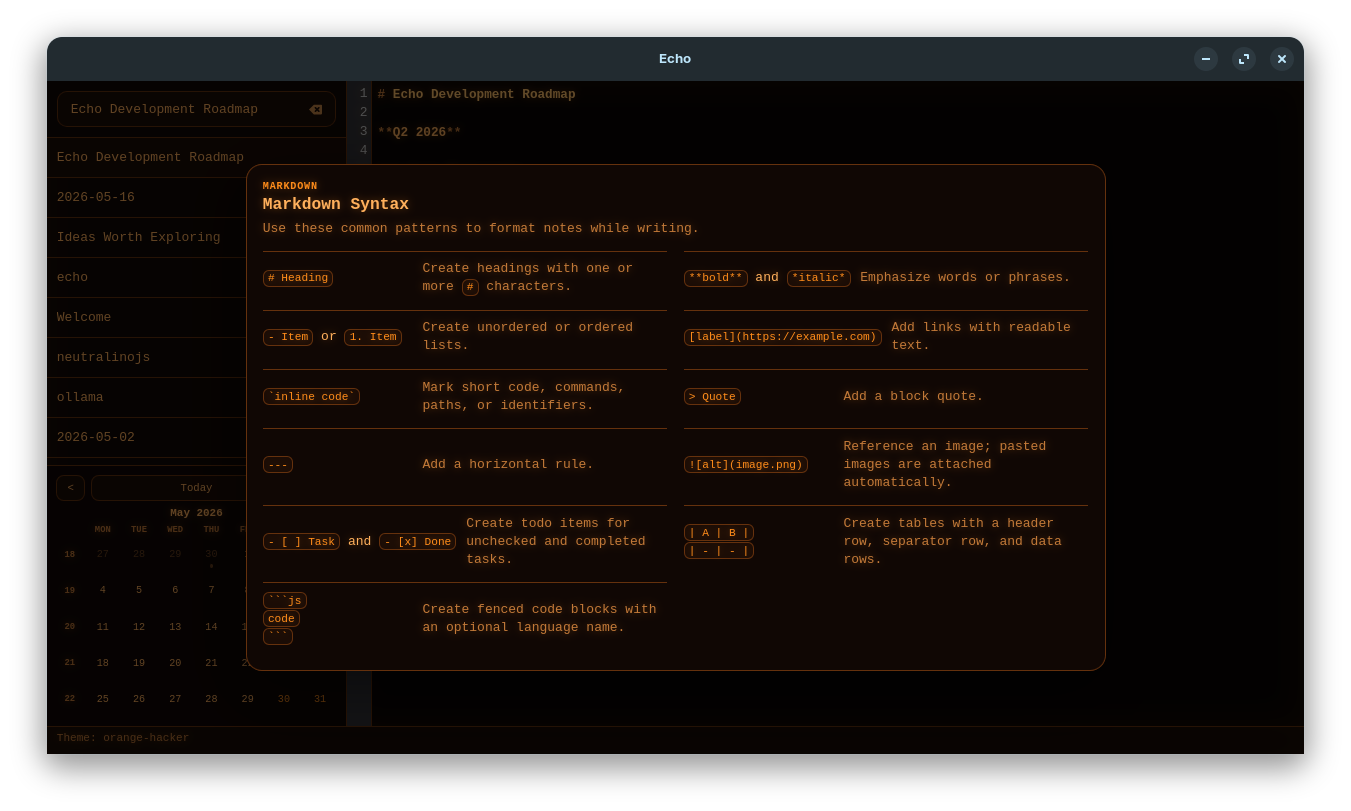
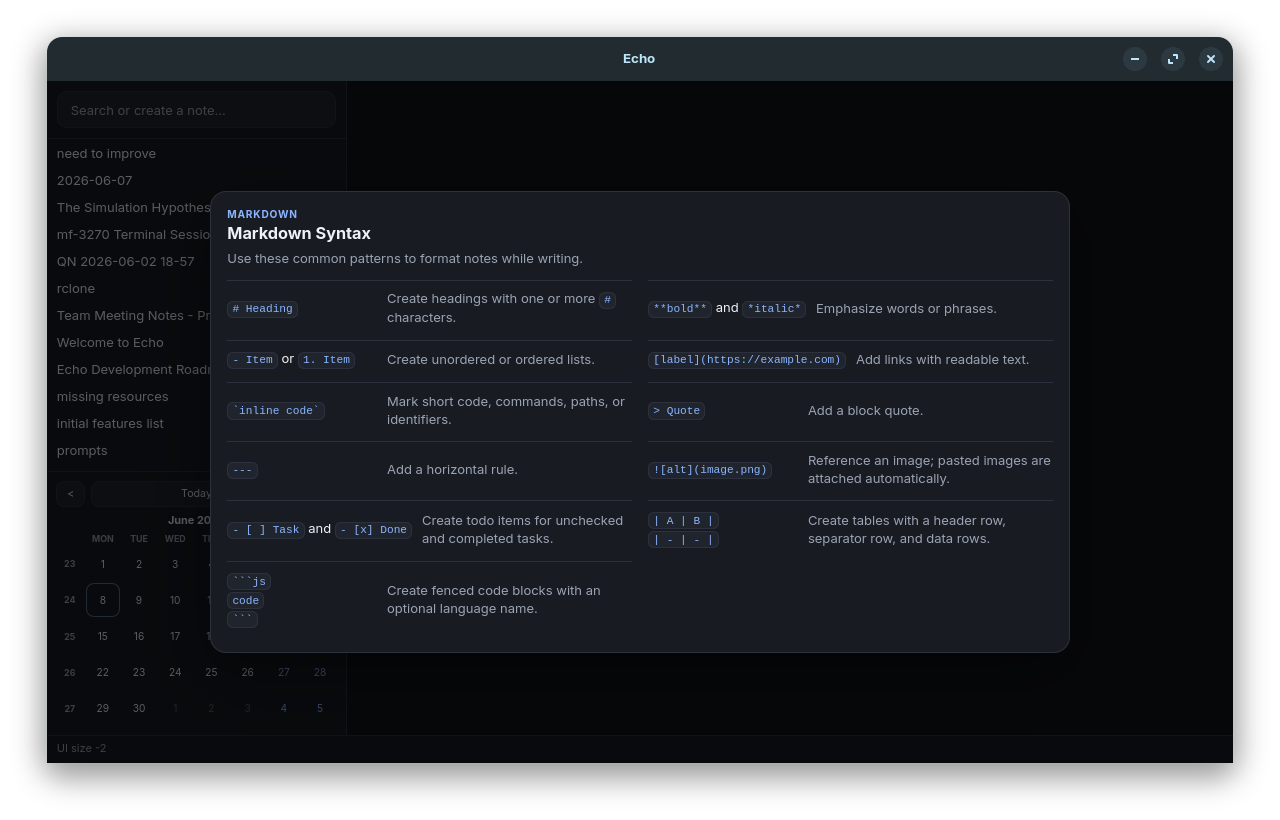
Enhance gallery functionality and styles in index.html
- Added CSS styles for gallery items, including hover effects and lightbox functionality for image previews.
- Replaced media placeholders with interactive buttons for screenshots, allowing users to click and view images in a lightbox.
- Updated the screenshots section to improve user experience by enabling zoom-in capabilities on images.
- Removed outdated screenshot files and added new images to the gallery for better representation of features.

diff --git a/homepage/index.html b/homepage/index.html
@@ -520,6 +520,104 @@
       border-radius: var(--radius);
       border: 1px solid var(--border);
       background: var(--bg-card);
+      transition: border-color 0.2s;
+    }
+
+    .gallery-item:has(.gallery-media):hover {
+      border-color: var(--muted);
+    }
+
+    .gallery-media {
+      display: block;
+      width: 100%;
+      aspect-ratio: 16 / 10;
+      overflow: hidden;
+      border: 0;
+      padding: 0;
+      margin: 0;
+      background: var(--bg-subtle);
+      cursor: zoom-in;
+      font: inherit;
+      color: inherit;
+      transition: opacity 0.2s;
+    }
+
+    .gallery-media:hover {
+      opacity: 0.92;
+    }
+
+    .gallery-media img {
+      width: 100%;
+      height: 100%;
+      object-fit: contain;
+      object-position: center;
+      display: block;
+      pointer-events: none;
+    }
+
+    .hero-shot {
+      width: 100%;
+      aspect-ratio: 16 / 10;
+      overflow: hidden;
+      border-radius: var(--radius);
+      border: 1px solid var(--border);
+      background: var(--bg-subtle);
+      box-shadow: 0 32px 80px rgba(0, 0, 0, 0.6);
+    }
+
+    .hero-shot img {
+      width: 100%;
+      height: 100%;
+      object-fit: contain;
+      object-position: center;
+      display: block;
+    }
+
+    /* ── LIGHTBOX ── */
+    .lightbox {
+      display: none;
+      position: fixed;
+      inset: 0;
+      z-index: 1000;
+      background: rgba(0, 0, 0, 0.92);
+      align-items: center;
+      justify-content: center;
+      padding: 2rem;
+    }
+
+    .lightbox.active {
+      display: flex;
+    }
+
+    .lightbox img {
+      max-width: min(96vw, 1400px);
+      max-height: 90vh;
+      width: auto;
+      height: auto;
+      border-radius: var(--radius);
+      border: 1px solid var(--border);
+      box-shadow: 0 24px 80px rgba(0, 0, 0, 0.8);
+    }
+
+    .lightbox-close {
+      position: absolute;
+      top: 1.5rem;
+      right: 1.5rem;
+      background: var(--bg-card);
+      border: 1px solid var(--border);
+      border-radius: 50%;
+      width: 40px;
+      height: 40px;
+      display: flex;
+      align-items: center;
+      justify-content: center;
+      cursor: pointer;
+      color: var(--muted);
+      transition: color 0.2s;
+    }
+
+    .lightbox-close:hover {
+      color: var(--text);
     }
 
     .gallery-item:nth-child(1) { grid-column: 1 / 8; }
@@ -952,7 +1050,7 @@
     <div class="screenshots-header">
       <p class="section-label">Screenshots</p>
       <h2 class="section-title">See it in action.</h2>
-      <p class="section-sub">Screenshots coming soon — placeholders show the assets we need for v0.1.3.</p>
+      <p class="section-sub">Click any screenshot to zoom in.</p>
     </div>
     <div class="gallery">
       <div class="gallery-item">
@@ -970,45 +1068,39 @@
         <div class="gallery-caption">All themes</div>
       </div>
       <div class="gallery-item">
-        <div class="media-placeholder media-placeholder--gallery" role="img" aria-label="Focus mode placeholder">
-          <span class="media-placeholder-file">screenshots/focus-mode.png</span>
-          <span class="media-placeholder-size">1280 × 820</span>
-        </div>
+        <button type="button" class="gallery-media" data-lightbox-src="screenshots/focus-mode.png" data-lightbox-alt="Focus mode" aria-label="View Focus mode screenshot">
+          <img src="screenshots/focus-mode.png" alt="" loading="lazy" />
+        </button>
         <div class="gallery-caption">Focus mode</div>
       </div>
       <div class="gallery-item">
-        <div class="media-placeholder media-placeholder--gallery" role="img" aria-label="Quick note placeholder">
-          <span class="media-placeholder-file">screenshots/quick-note.png</span>
-          <span class="media-placeholder-size">1280 × 820</span>
-        </div>
+        <button type="button" class="gallery-media" data-lightbox-src="screenshots/quick-note.png" data-lightbox-alt="Quick note" aria-label="View Quick note screenshot">
+          <img src="screenshots/quick-note.png" alt="" loading="lazy" />
+        </button>
         <div class="gallery-caption">Quick note</div>
       </div>
       <div class="gallery-item">
-        <div class="media-placeholder media-placeholder--gallery" role="img" aria-label="Find in note placeholder">
-          <span class="media-placeholder-file">screenshots/find-in-note.png</span>
-          <span class="media-placeholder-size">1280 × 820</span>
-        </div>
+        <button type="button" class="gallery-media" data-lightbox-src="screenshots/find-in-note.png" data-lightbox-alt="Find in note" aria-label="View Find in note screenshot">
+          <img src="screenshots/find-in-note.png" alt="" loading="lazy" />
+        </button>
         <div class="gallery-caption">Find in note</div>
       </div>
       <div class="gallery-item">
-        <div class="media-placeholder media-placeholder--gallery" role="img" aria-label="Fuzzy search placeholder">
-          <span class="media-placeholder-file">screenshots/fuzzy-search.png</span>
-          <span class="media-placeholder-size">1280 × 820</span>
-        </div>
+        <button type="button" class="gallery-media" data-lightbox-src="screenshots/fuzzy-search.png" data-lightbox-alt="Fuzzy search" aria-label="View Fuzzy search screenshot">
+          <img src="screenshots/fuzzy-search.png" alt="" loading="lazy" />
+        </button>
         <div class="gallery-caption">Fuzzy search</div>
       </div>
       <div class="gallery-item">
-        <div class="media-placeholder media-placeholder--gallery" role="img" aria-label="Keyboard shortcuts placeholder">
-          <span class="media-placeholder-file">screenshots/keyboard-shortcuts.png</span>
-          <span class="media-placeholder-size">1280 × 820</span>
-        </div>
+        <button type="button" class="gallery-media" data-lightbox-src="screenshots/keyboard-shortcuts.png" data-lightbox-alt="Keyboard shortcuts" aria-label="View Keyboard shortcuts screenshot">
+          <img src="screenshots/keyboard-shortcuts.png" alt="" loading="lazy" />
+        </button>
         <div class="gallery-caption">Keyboard shortcuts</div>
       </div>
       <div class="gallery-item">
-        <div class="media-placeholder media-placeholder--gallery" role="img" aria-label="Markdown syntax placeholder">
-          <span class="media-placeholder-file">screenshots/markdown-syntax.png</span>
-          <span class="media-placeholder-size">1280 × 820</span>
-        </div>
+        <button type="button" class="gallery-media" data-lightbox-src="screenshots/markdown-syntax.png" data-lightbox-alt="Markdown reference" aria-label="View Markdown reference screenshot">
+          <img src="screenshots/markdown-syntax.png" alt="" loading="lazy" />
+        </button>
         <div class="gallery-caption">Markdown reference</div>
       </div>
     </div>
@@ -1104,6 +1196,52 @@
     </div>
   </div>
 </footer>
+
+<div class="lightbox" id="lightbox" role="dialog" aria-modal="true" aria-label="Screenshot preview">
+  <button type="button" class="lightbox-close" id="lightbox-close" aria-label="Close">
+    <svg width="16" height="16" viewBox="0 0 24 24" fill="none" stroke="currentColor" stroke-width="2" stroke-linecap="round" stroke-linejoin="round" aria-hidden="true"><line x1="18" y1="6" x2="6" y2="18"/><line x1="6" y1="6" x2="18" y2="18"/></svg>
+  </button>
+  <img id="lightbox-img" src="" alt="" />
+</div>
+
+<script>
+  const lightbox = document.getElementById("lightbox");
+  const lightboxImg = document.getElementById("lightbox-img");
+  const lightboxClose = document.getElementById("lightbox-close");
+
+  function openLightbox(src, alt) {
+    lightboxImg.src = src;
+    lightboxImg.alt = alt;
+    lightbox.classList.add("active");
+    document.body.style.overflow = "hidden";
+  }
+
+  function closeLightbox() {
+    lightbox.classList.remove("active");
+    lightboxImg.src = "";
+    document.body.style.overflow = "";
+  }
+
+  document.querySelectorAll(".gallery-media[data-lightbox-src]").forEach((button) => {
+    button.addEventListener("click", () => {
+      openLightbox(button.dataset.lightboxSrc, button.dataset.lightboxAlt || "");
+    });
+  });
+
+  lightboxClose.addEventListener("click", closeLightbox);
+
+  lightbox.addEventListener("click", (event) => {
+    if (event.target === lightbox) {
+      closeLightbox();
+    }
+  });
+
+  document.addEventListener("keydown", (event) => {
+    if (event.key === "Escape" && lightbox.classList.contains("active")) {
+      closeLightbox();
+    }
+  });
+</script>
 
 </body>
 </html>
